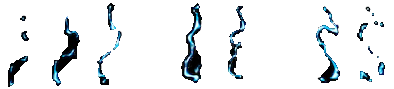
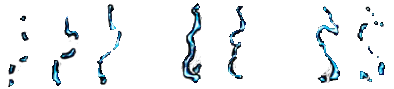
added more lightning textures and better screen positioning

diff --git a/Source/JS/main.js b/Source/JS/main.js
@@ -37,7 +37,8 @@ import {
   const NUM_SAMPLES = 256;
   //Canvas vars
   let canvas, ctx;
-  let wingScale = 1, flapScale = 1; // scale modifier for wings and flaps
+  let wingScale = 1,
+    flapScale = 1; // scale modifier for wings and flaps
   let brightness = 1; // brightness modifier
   let frameCount = 0;
   let eyeColor = "cycle"; // color of filter applied to eyes
@@ -129,23 +130,52 @@ import {
         numberOfFrames: 16
       })
     ];
-    lightning = [
-      new Lightning(
-        new SpriteSheet({
-          context: ctx,
-          width: 1510,
-          height: 332,
-          image: imgData[3],
-          ticksPerFrame: 2.5,
-          numberOfFrames: 11
-        }),
-        2000,
-        3,
-        300,
-        300,
-        dw
-      )
-    ];
+    let selection = false;
+    for (let i = 0; i < 6; i++) {
+      let nwLightning;
+      if (!selection) {
+        nwLightning = new Lightning(
+          new SpriteSheet({
+            context: ctx,
+            width: 394,
+            height: 89,
+            image: imgData[3],
+            ticksPerFrame: 2,
+            numberOfFrames: 9
+          }),
+          2000,
+          3,
+          300,
+          300,
+          dw,
+          1.5,
+          1.5,
+          i
+        );
+        selection = true;
+      } else {
+        nwLightning = new Lightning(
+          new SpriteSheet({
+            context: ctx,
+            width: 1024,
+            height: 512,
+            image: imgData[4],
+            ticksPerFrame: 1,
+            numberOfFrames: 8
+          }),
+          2000,
+          3,
+          300,
+          300,
+          dw,
+          0.4,
+          0.4,
+          i
+        );
+        selection = false;
+      }
+      lightning.push(nwLightning);
+    }
 
     neonPowerArr = [
       new NeonPower(
@@ -349,17 +379,21 @@ import {
 
     frameCount += 1;
     //image effects
-    if(frameCount % 2 == 0){
+    if (frameCount % 2 == 0) {
       manipulatePixels(true);
       frameCount = 0;
+    } else {
+      manipulatePixels();
     }
-    else{manipulatePixels();}
 
     manipulateEyes();
 
-    lightning[0].update();
-    lightning[0].render();
-    
+    for (let lightmem of lightning) {
+      lightmem.xOff = canvas.width / 2;
+      lightmem.yOff = canvas.height / 2;
+      lightmem.update();
+      lightmem.render();
+    }
   }
 
   let drawFlap = () => {
@@ -413,7 +447,7 @@ import {
     dw.close();
   };
 
-  let manipulatePixels = (brightness=false) => {
+  let manipulatePixels = (brightness = false) => {
     let imageData = ctx.getImageData(0, 0, canvas.width, canvas.height);
     let data = imageData.data;
     let length = data.length;
@@ -443,14 +477,20 @@ import {
         data[i] = data[i + 1] = data[i + 2] = 255;
       }
 
-      if(brightness){
+      if (brightness) {
         // Apply brightness adjustment
         data[i] += brightness;
-        if(data[i] > 255) {data[i] = 255};
+        if (data[i] > 255) {
+          data[i] = 255;
+        }
         data[i + 1] += brightness;
-        if(data[i+1] > 255) {data[i+1] = 255};
+        if (data[i + 1] > 255) {
+          data[i + 1] = 255;
+        }
         data[i + 2] += brightness;
-        if(data[i+2] > 255) {data[i+2] = 255};
+        if (data[i + 2] > 255) {
+          data[i + 2] = 255;
+        }
       }
 
       /*if (lines) {
@@ -462,7 +502,6 @@ import {
           ] = data[i + width * 4 + 3] = 255;
         }
       }*/
-      
     }
     ctx.putImageData(imageData, 0, 0);
   };
@@ -470,46 +509,56 @@ import {
   // Used to apply a color filter to the skull's eyes
   let manipulateEyes = () => {
     // Get image data (from the same eye because it's easier)
-    let leftEye = ctx.getImageData(canvas.width / 2 - 74, canvas.height / 2 - 120, 34, 34);
-    let rightEye = ctx.getImageData(canvas.width / 2 + 44, canvas.height / 2 - 120, 34, 34);
+    let leftEye = ctx.getImageData(
+      canvas.width / 2 - 74,
+      canvas.height / 2 - 120,
+      34,
+      34
+    );
+    let rightEye = ctx.getImageData(
+      canvas.width / 2 + 44,
+      canvas.height / 2 - 120,
+      34,
+      34
+    );
 
     let leftData = leftEye.data;
     let leftLength = leftData.length;
-    
+
     let rightData = rightEye.data;
-    
+
     let colors = getRandomColor();
 
     for (let i = 0; i < leftLength; i += 4) {
-      switch(eyeColor){
+      switch (eyeColor) {
         // if() in each case checks to prevent black pixels from being changed
-        case "random":  
-          if(leftData[i] >= 10) leftData[i] = colors[0];
-          if(rightData[i] >= 10) rightData[i] = colors[0];
-          if(leftData[i+1] >= 10) leftData[i+1] = colors[1];
-          if(rightData[i+1] >= 10) rightData[i+1] = colors[1];
-          if(leftData[i+2] >= 10) leftData[i+2] = colors[2];
-          if(rightData[i+2] >= 10) rightData[i+2] = colors[2];
+        case "random":
+          if (leftData[i] >= 10) leftData[i] = colors[0];
+          if (rightData[i] >= 10) rightData[i] = colors[0];
+          if (leftData[i + 1] >= 10) leftData[i + 1] = colors[1];
+          if (rightData[i + 1] >= 10) rightData[i + 1] = colors[1];
+          if (leftData[i + 2] >= 10) leftData[i + 2] = colors[2];
+          if (rightData[i + 2] >= 10) rightData[i + 2] = colors[2];
           break;
         case "red":
-          if(leftData[i] >= 10) leftData[i] = 255;
-          if(rightData[i] >= 10) rightData[i] = 255;
+          if (leftData[i] >= 10) leftData[i] = 255;
+          if (rightData[i] >= 10) rightData[i] = 255;
           break;
         case "green":
           break;
         case "blue":
-          if(leftData[i+2] >= 10) leftData[i+2] = 255;
-          if(rightData[i+2] >= 10) rightData[i+2] = 255;
+          if (leftData[i + 2] >= 10) leftData[i + 2] = 255;
+          if (rightData[i + 2] >= 10) rightData[i + 2] = 255;
           break;
         case "yellow":
-          if(leftData[i] >= 10) leftData[i] = 255;
-          if(rightData[i] >= 10) rightData[i] = 255;
-          if(leftData[i+1] >= 10) leftData[i+1] = 255;
-          if(rightData[i+1] >= 10) rightData[i+1] = 255;
-          if(leftData[i+2] >= 10) leftData[i+2] = 0;
-          if(rightData[i+2] >= 10) rightData[i+2] = 0;
+          if (leftData[i] >= 10) leftData[i] = 255;
+          if (rightData[i] >= 10) rightData[i] = 255;
+          if (leftData[i + 1] >= 10) leftData[i + 1] = 255;
+          if (rightData[i + 1] >= 10) rightData[i + 1] = 255;
+          if (leftData[i + 2] >= 10) leftData[i + 2] = 0;
+          if (rightData[i + 2] >= 10) rightData[i + 2] = 0;
           break;
-      } 
+      }
     }
 
     //ctx.putImageData(leftEye, canvas.width / 2 - 75, canvas.height / 2 - 120);
@@ -527,7 +576,9 @@ import {
         "./images/background_crop_png.png",
         "./images/flames.png",
         "./images/vortex.png",
-        "./images/lightning2.png"
+        "./images/lightning1.png",
+        "./images/lightning3.png",
+        "./images/lightning4.png"
       ],
       init
     );

diff --git a/Source/JS/JS_Sprites/lightning.js b/Source/JS/JS_Sprites/lightning.js
@@ -3,7 +3,17 @@
 export default class Lightning {
   //request a sprite sheet
   //have a death and alive state to mitigate instantiation
-  constructor(spriteSheet, waitTime, lightningSpeed, x, y, drawRef) {
+  constructor(
+    spriteSheet,
+    waitTime,
+    lightningSpeed,
+    x,
+    y,
+    drawRef,
+    scaleX,
+    scaleY,
+    id
+  ) {
     this.spriteSheet = spriteSheet;
     this.wait = waitTime;
     this.x = x;
@@ -15,9 +25,14 @@ export default class Lightning {
     this.drawRef = drawRef;
     this.xOff = 0;
     this.yOff = 0;
+    this.scaleX = scaleX;
+    this.scaleY = scaleY;
+    this.id = id;
+    this.randNum = Math.floor(Math.random() * 90); // this will get a number between 1 and 99;
+    this.randNum *= Math.floor(Math.random() * 2) == 1 ? 1 : -1;
     setTimeout(() => {
       this.activate();
-    }, this.wait);
+    }, this.wait + Math.random() * 1500);
   }
   activate() {
     this.allowedUpdate = true;
@@ -32,8 +47,15 @@ export default class Lightning {
         this.alpha -= this.interpAlpha;
       else if (this.queueDeath && this.alpha <= 0) {
         this.queueDeath = false;
-        this.x = 400 + Math.random() * 500 + this.xOff;
-        this.y = 300 + this.yOff;
+        if (this.id <= 3) {
+          this.x = this.xOff + Math.random() * 300;
+          this.y = this.yOff - Math.random() * 250;
+        } else {
+          this.x = this.xOff - Math.random() * 300;
+          this.y = this.yOff - Math.random() * 250;
+        }
+        this.randNum = Math.floor(Math.random() * 90); // this will get a number between 1 and 99;
+        this.randNum *= Math.floor(Math.random() * 2) == 1 ? 1 : -1;
         this.activate();
       }
     }
@@ -41,6 +63,8 @@ export default class Lightning {
   render() {
     this.drawRef.save();
     this.drawRef.translate(this.x, this.y);
+    this.drawRef.scale(this.scaleX, this.scaleY);
+    this.drawRef.rotate(this.randNum);
     this.drawRef.ctx.globalAlpha = this.alpha;
     this.spriteSheet.render();
     this.drawRef.restore();

diff --git a/Source/JS/draw.js b/Source/JS/draw.js
@@ -19,8 +19,8 @@ export default class Draw {
   translate(x = 0, y = 0) {
     this.ctx.translate(x, y);
   }
-  rotate(x, y) {
-    this.ctx.rotate(x, y);
+  rotate(degrees = 0) {
+    this.ctx.rotate((degrees * Math.PI) / 180);
   }
   newL(x = 0, y = 0) {
     this.ctx.beginPath();
